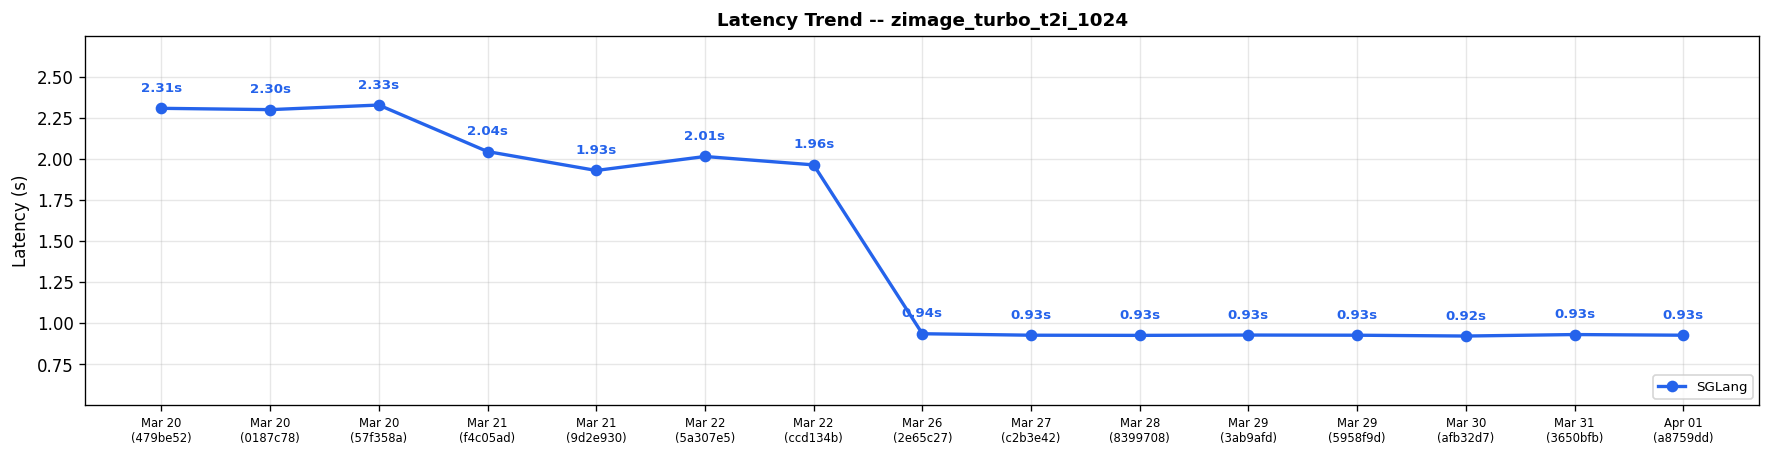
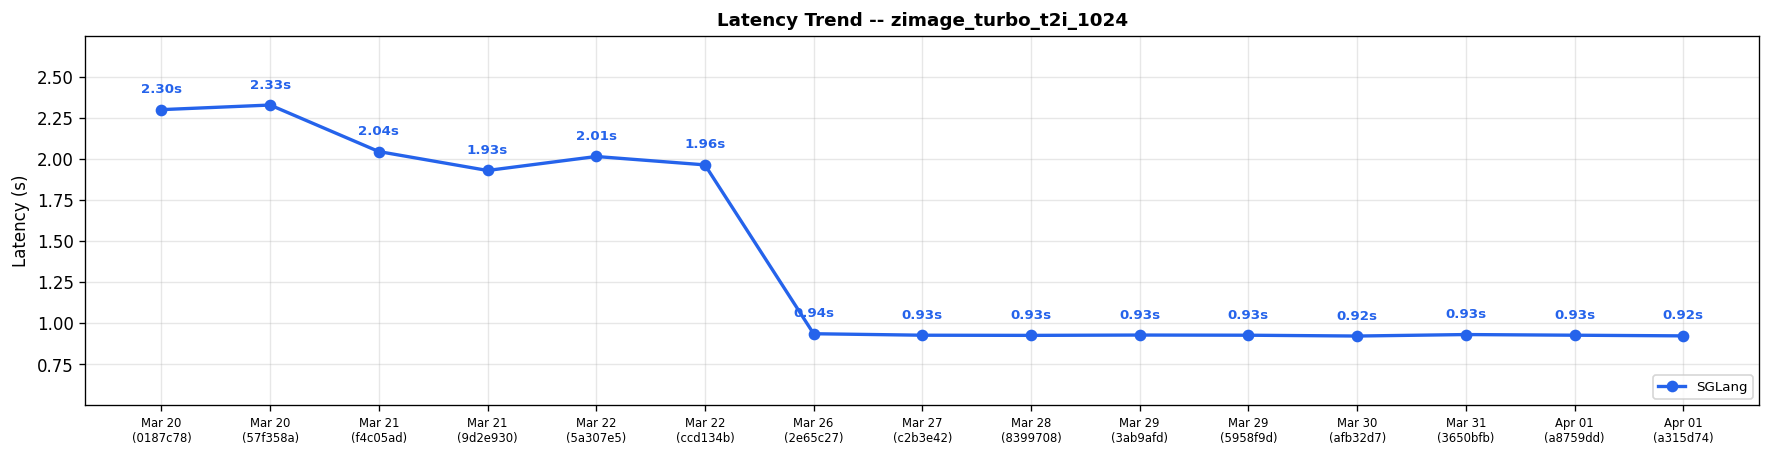
Diffusion comparison results for run 23853524625 (#541)

diff --git a/diffusion-comparisons/dashboard.md b/diffusion-comparisons/dashboard.md
@@ -1,30 +1,25 @@
 # Diffusion Cross-Framework Performance Dashboard
 
-*Generated: Apr 01 | Commit: `a8759dd`*
-
-> [!WARNING]
-> **Performance Regression Detected**
->
-> - **wan22_i2v_a14b_720p** (sglang): 9.03s -> 21.07s (+133.3%)
-
+*Generated: Apr 01 | Commit: `a315d74`*
 
 ## Cross-Framework Performance Comparison
 
 | Model | Risk | sglang (s) |
 |-------|------|---------|
 | FLUX.1-dev | ✅ | **6.70** |
-| FLUX.2-dev | ✅ | **22.88** |
-| Qwen-Image-2512 | ✅ | **13.19** |
-| Qwen-Image-Edit-2511 | ✅ | **30.10** |
-| Z-Image-Turbo | ✅ | **0.93** |
-| Wan2.2-T2V-A14B-Diffusers | ✅ | **16.16** |
-| Wan2.2-TI2V-5B-Diffusers | ✅ | **62.20** |
-| Wan2.2-I2V-A14B-Diffusers | ⚠ | **21.07** |
+| FLUX.2-dev | ✅ | **22.89** |
+| Qwen-Image-2512 | ✅ | **13.30** |
+| Qwen-Image-Edit-2511 | ✅ | **29.70** |
+| Z-Image-Turbo | ✅ | **0.92** |
+| Wan2.2-T2V-A14B-Diffusers | ✅ | **16.20** |
+| Wan2.2-TI2V-5B-Diffusers | ✅ | **62.19** |
+| Wan2.2-I2V-A14B-Diffusers | ⚠ | **22.08** |
 
 ## SGLang Performance Trend (Last 15 Runs)
 
 | Date | Commit | flux1_dev_t2i_1024 (s) | flux2_dev_t2i_1024 (s) | qwen_image_2512_t2i_1024 (s) | qwen_image_edit_2511 (s) | zimage_turbo_t2i_1024 (s) | wan22_t2v_a14b_720p (s) | wan22_ti2v_5b_720p (s) | wan22_i2v_a14b_720p (s) | Trend |
 |------|--------|---------|---------|---------|---------|---------|---------|---------|---------|-------|
+| Apr 01 | `a315d74` | 6.70 | 22.89 | 13.30 | 29.70 | 0.92 | 16.20 | 62.19 | 22.08 | :left_right_arrow:  :left_right_arrow:  :left_right_arrow:  :left_right_arrow:  :left_right_arrow:  :left_right_arrow:  :left_right_arrow:  :arrow_up: |
 | Apr 01 | `a8759dd` | 6.70 | 22.88 | 13.19 | 30.10 | 0.93 | 16.16 | 62.20 | 21.07 | :left_right_arrow:  :left_right_arrow:  :left_right_arrow:  :left_right_arrow:  :left_right_arrow:  :left_right_arrow:  :left_right_arrow:  :arrow_up: |
 | Mar 31 | `3650bfb` | 6.69 | 22.84 | 13.19 | 29.64 | 0.93 | 16.10 | 63.18 | 9.03 | :left_right_arrow:  :left_right_arrow:  :left_right_arrow:  :left_right_arrow:  :left_right_arrow:  :left_right_arrow:  :left_right_arrow:  :arrow_down: |
 | Mar 30 | `afb32d7` | 6.68 | 22.79 | 13.16 | 29.44 | 0.92 | 16.08 | 62.21 | 10.04 | :left_right_arrow:  :left_right_arrow:  :left_right_arrow:  :left_right_arrow:  :left_right_arrow:  :left_right_arrow:  :left_right_arrow:  :left_right_arrow: |
@@ -38,8 +33,7 @@
 | Mar 21 | `9d2e930` | 6.77 | 22.77 | 13.71 | 30.39 | 1.93 | 16.14 | 62.15 | 9.03 | :arrow_down:  :arrow_down:  :arrow_down:  :arrow_down:  :arrow_down:  :arrow_down:  :arrow_down:  :arrow_down: |
 | Mar 21 | `f4c05ad` | 7.25 | 23.89 | 14.66 | 33.42 | 2.04 | 19.25 | 70.19 | 10.04 | :left_right_arrow:  :left_right_arrow:  :arrow_down:  :left_right_arrow:  :arrow_down:    :left_right_arrow: |
 | Mar 20 | `57f358a` | 7.13 | 24.05 | 17.18 | 32.91 | 2.33 | N/A | N/A | 10.04 | :left_right_arrow:   :left_right_arrow:  :left_right_arrow:  :left_right_arrow:    |
-| Mar 20 | `0187c78` | 7.12 | N/A | 17.39 | 32.87 | 2.30 | N/A | N/A | N/A |     :left_right_arrow:    |
-| Mar 20 | `479be52` | N/A | N/A | N/A | N/A | 2.31 | 17.44 | N/A | N/A | -- |
+| Mar 20 | `0187c78` | 7.12 | N/A | 17.39 | 32.87 | 2.30 | N/A | N/A | N/A | -- |
 
 ### Latency Trend: flux1_dev_t2i_1024
 
@@ -85,7 +79,7 @@
 > **Action Required — Performance Alert**
 >
 > The following cases need attention:
-> - wan22_i2v_a14b_720p: SGLang regression +117.2% vs 3-run avg (21.07s vs 9.70s)
+> - wan22_i2v_a14b_720p: SGLang regression +65.0% vs 3-run avg (22.08s vs 13.38s)
 >
 > cc @mickqian @bbuf @yhyang201
 
